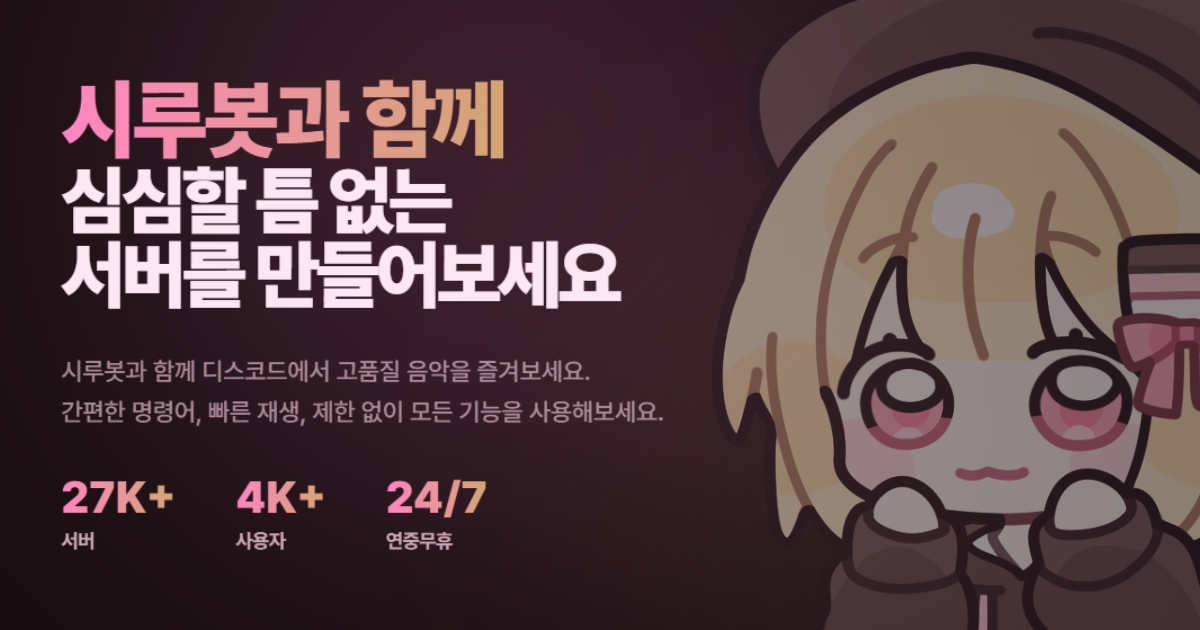
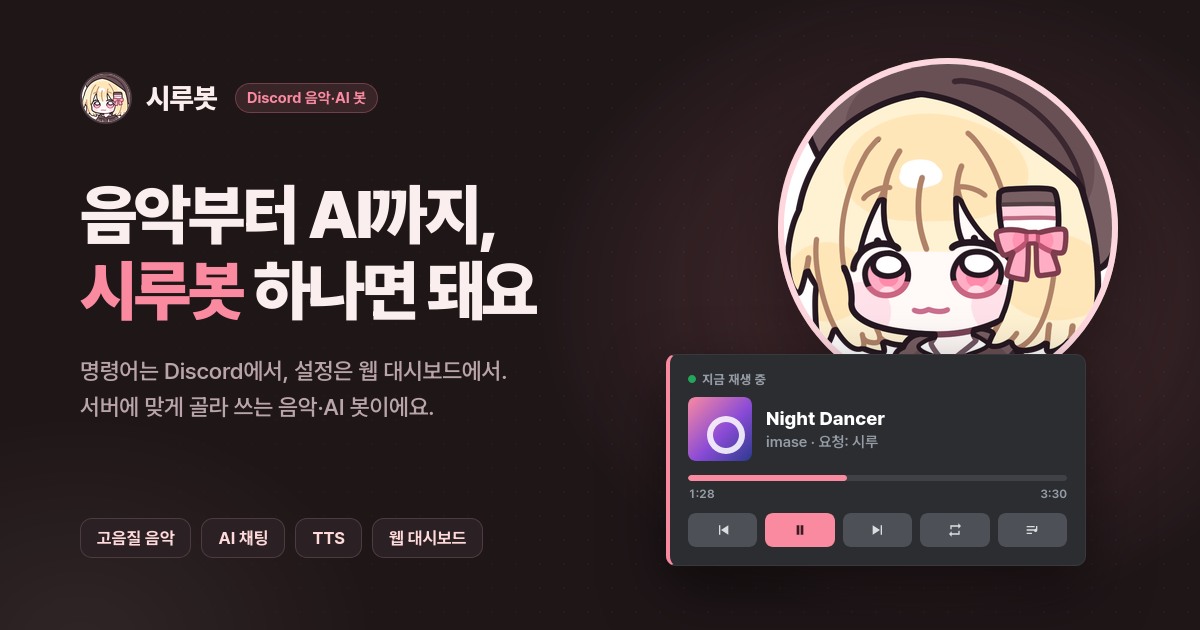
feat: 대시보드 OG 이미지와 Discord 컴포넌트 임베드 디자인 갱신
- OG 이미지를 현재 히어로 카피·다크 브랜드 톤으로 다시 그리고, 초대·음악 차트 전용 이미지를 추가해요
- 하위 페이지가 홈 og:title을 물려받던 문제를 socialMetadata 헬퍼로 고쳐요
- 컴포넌트 임베드: 썸네일 Section, 서브텍스트, 특징 줄, 이모지 버튼, 브랜드 강조색

diff --git a/apps/dashboard/src/lib/discord-embed.ts b/apps/dashboard/src/lib/discord-embed.ts
@@ -6,23 +6,34 @@
  * - 실패하면 Discord가 Open Graph 메타로 대체하므로 metadata(openGraph)는 그대로 둬요.
  */
 
+import { OG_IMAGES } from "@/lib/site-metadata";
+
 export const DISCORD_EMBED_MAX_BYTES = 3000;
-const ACCENT_COLOR = 0xf08a8a;
+/** 다크 테마 --brand(#f98aa0)와 같은 색이에요 */
+const ACCENT_COLOR = 0xf98aa0;
 const LINK_BUTTON_STYLE = 5;
 
 export interface DiscordEmbedButton {
 	label: string;
 	url: string;
+	/** 유니코드 이모지 하나 — 버튼 라벨 앞에 붙어요 */
+	emoji?: string;
 }
 
 export interface DiscordEmbedInput {
 	title: string;
 	description: string;
-	/** 절대 URL — 제목 링크와 우측 버튼에 쓰여요 */
+	/** 절대 URL — 제목 링크에 쓰여요 */
 	url: string;
+	/** 제목 위 작은 줄(-# 서브텍스트) */
+	eyebrow?: string;
+	/** 절대 URL 이미지 — 제목 오른쪽 썸네일로 보여줘요 */
+	thumbnailUrl?: string;
 	/** 절대 URL 이미지 — 본문 아래 큰 이미지로 보여줘요 */
 	imageUrl?: string;
 	imageAlt?: string;
+	/** 이미지 아래 짧은 특징 줄 — 한 줄에 하나씩 보여줘요 */
+	highlights?: string[];
 	buttons: DiscordEmbedButton[];
 }
 
@@ -42,20 +53,31 @@ function getAppBaseUrl() {
 	return (process.env.NEXT_PUBLIC_APP_URL || "http://localhost:3000").replace(/\/+$/, "");
 }
 
-export function buildDiscordEmbed({ title, description, url, imageUrl, imageAlt, buttons }: DiscordEmbedInput) {
+export function buildDiscordEmbed({ title, description, url, eyebrow, thumbnailUrl, imageUrl, imageAlt, highlights, buttons }: DiscordEmbedInput) {
+	const heading = { type: 10, content: `${eyebrow ? `-# ${eyebrow}\n` : ""}## [${title}](${url})\n${description}` };
 	const components: unknown[] = [
-		{ type: 10, content: `# [${title}](${url})\n${description}` }
+		thumbnailUrl ? { type: 9, components: [heading], accessory: { type: 11, media: { url: thumbnailUrl } } } : heading
 	];
 
 	if (imageUrl) {
 		components.push({ type: 12, items: [{ media: { url: imageUrl }, ...(imageAlt ? { description: imageAlt } : {}) }] });
 	}
 
+	if (highlights?.length) {
+		components.push({ type: 10, content: highlights.join("\n") });
+	}
+
 	if (buttons.length > 0) {
 		components.push({ type: 14, spacing: 1 });
 		components.push({
 			type: 1,
-			components: buttons.slice(0, 5).map(({ label, url: href }) => ({ type: 2, style: LINK_BUTTON_STYLE, label, url: href }))
+			components: buttons.slice(0, 5).map(({ label, url: href, emoji }) => ({
+				type: 2,
+				style: LINK_BUTTON_STYLE,
+				label,
+				url: href,
+				...(emoji ? { emoji: { name: emoji } } : {})
+			}))
 		});
 	}
 
@@ -71,41 +93,47 @@ export function serializeDiscordEmbed(payload: ReturnType<typeof buildDiscordEmb
 	return json;
 }
 
-const DESCRIPTION = "음악 재생부터 AI 채팅, 서버 관리까지. 시루봇 하나로 Discord를 더 편리하게 즐겨보세요.";
-
 /** 페이지별 임베드 정의 — 키는 /embeds/<key>.json 경로와 DiscordEmbedLink의 name이에요 */
 export function getDiscordEmbedInput(name: string, base: string): DiscordEmbedInput | null {
-	const imageUrl = `${base}/images/og-image.png`;
-	const invite = { label: "봇 초대하기", url: `${base}/invite` };
-	const dashboard = { label: "대시보드 가기", url: `${base}/servers` };
+	const thumbnailUrl = `${base}/images/siru-profile.png`;
+	const invite = { label: "봇 초대하기", url: `${base}/invite`, emoji: "➕" };
+	const dashboard = { label: "대시보드", url: `${base}/servers`, emoji: "🛠" };
+	const chart = { label: "음악 차트", url: `${base}/track`, emoji: "📈" };
 
 	switch (name) {
 		case "home":
 			return {
-				title: "시루봇",
-				description: DESCRIPTION,
+				eyebrow: "Discord 음악·AI 봇",
+				title: "음악부터 AI까지, 시루봇 하나면 돼요",
+				description: "명령어는 Discord에서, 설정은 웹 대시보드에서. 서버에 맞게 골라 쓰는 음악·AI 봇이에요.",
 				url: base,
-				imageUrl,
-				imageAlt: "시루봇",
-				buttons: [invite, dashboard, { label: "음악 차트", url: `${base}/track` }]
+				thumbnailUrl,
+				imageUrl: `${base}${OG_IMAGES.home.url}`,
+				imageAlt: OG_IMAGES.home.alt,
+				highlights: ["🎵 **음악** 고음질 재생, 대기열, 웹 플레이어", "💬 **AI** 채팅과 TTS로 대화하기", "🛠 **관리** 웹 대시보드에서 서버 설정"],
+				buttons: [invite, dashboard, chart]
 			};
 		case "invite":
 			return {
-				title: "시루봇 초대하기",
-				description: "시루봇을 내 Discord 서버에 초대해요. 음악 신청과 대기열 관리, 웹 플레이어까지 한 번에 쓸 수 있어요.",
+				eyebrow: "봇 초대",
+				title: "내 서버에 시루봇을 초대해요",
+				description: "음악 신청과 대기열 관리, 웹 플레이어까지 초대 한 번으로 바로 쓸 수 있어요.",
 				url: `${base}/invite`,
-				imageUrl,
-				imageAlt: "시루봇",
+				thumbnailUrl,
+				imageUrl: `${base}${OG_IMAGES.invite.url}`,
+				imageAlt: OG_IMAGES.invite.alt,
 				buttons: [invite, dashboard]
 			};
 		case "track":
 			return {
-				title: "음악 차트",
-				description: "Discord에서 인기 있는 음악 차트를 확인하고 바로 재생해요.",
+				eyebrow: "음악 차트",
+				title: "지금 뜨는 음악, 바로 재생해요",
+				description: "Discord에서 많이 듣는 음악 차트를 확인하고 버튼 한 번으로 내 서버에서 틀어보세요.",
 				url: `${base}/track`,
-				imageUrl,
-				imageAlt: "시루봇",
-				buttons: [{ label: "차트 보기", url: `${base}/track` }, invite, dashboard]
+				thumbnailUrl,
+				imageUrl: `${base}${OG_IMAGES.track.url}`,
+				imageAlt: OG_IMAGES.track.alt,
+				buttons: [{ ...chart, label: "차트 보기" }, invite, dashboard]
 			};
 		default:
 			return null;

diff --git a/apps/dashboard/src/app/layout.tsx b/apps/dashboard/src/app/layout.tsx
@@ -6,6 +6,7 @@ import { Navbar } from "@/components/navbar";
 import { GlobalCommandPalette } from "@/components/overlay/global-command-palette";
 import { Providers } from "@/components/Providers";
 import { ScrollToTop } from "@/components/scroll-to-top";
+import { OG_IMAGES, socialMetadata } from "@/lib/site-metadata";
 
 import "./globals.css";
 
@@ -24,31 +25,15 @@ export const metadata: Metadata = {
   description: "음악 재생부터 AI 채팅, 서버 관리까지. 시루봇 하나로 Discord를 더 편리하게 즐겨보세요.",
   applicationName: "시루봇",
   keywords: ["시루봇", "디스코드 음악봇", "Discord 음악 봇", "디스코드 봇", "AI 채팅", "서버 관리"],
-  openGraph: {
+  ...socialMetadata({
     title: "시루봇 | Discord 음악·AI·서버 관리 봇",
     description: "음악 재생부터 AI 채팅, 서버 관리까지. 시루봇 하나로 Discord를 더 편리하게 즐겨보세요.",
-    url: process.env.NEXT_PUBLIC_APP_URL || "http://localhost:3000",
-    siteName: "시루봇",
-    images: [
-      {
-        url: "/images/og-image.png",
-        width: 1200,
-        height: 630,
-        alt: "시루봇",
-      },
-    ],
-    locale: "ko_KR",
-    type: "website",
-  },
+    path: "/",
+    image: OG_IMAGES.home,
+  }),
   robots: {
     index: true,
     follow: true,
-  },
-  twitter: {
-    card: "summary_large_image",
-    title: "시루봇",
-    description: "음악 재생부터 AI 채팅, 서버 관리까지. 시루봇 하나로 Discord를 더 편리하게 즐겨보세요.",
-    images: ["/images/og-image.png"],
   },
   icons: {
     icon: "/images/siru-profile-hand.png",

diff --git a/apps/dashboard/src/lib/site-metadata.ts b/apps/dashboard/src/lib/site-metadata.ts
@@ -1,0 +1,33 @@
+import type { Metadata } from "next";
+
+export const SITE_NAME = "시루봇";
+
+/**
+ * 페이지별 Open Graph 이미지(1200×630) — public/images에 있어요. 컴포넌트 임베드(lib/discord-embed)도 같이 써요.
+ * Pretendard로 미리 렌더한 정적 PNG예요(next/og는 woff2·가변 폰트를 못 읽어서 런타임 생성 대신 이렇게 둬요).
+ */
+export const OG_IMAGES = {
+	home: { url: "/images/og-image.png", alt: "시루봇 — 음악부터 AI까지, 시루봇 하나면 돼요" },
+	invite: { url: "/images/og-invite.png", alt: "시루봇 — 내 서버에 시루봇을 초대해요" },
+	track: { url: "/images/og-track.png", alt: "시루봇 — 지금 뜨는 음악, 바로 재생해요" }
+} as const;
+
+interface SocialMetadataInput {
+	title: string;
+	description: string;
+	/** 앱 기준 경로 — metadataBase로 절대 URL이 돼요 */
+	path: string;
+	image: (typeof OG_IMAGES)[keyof typeof OG_IMAGES];
+}
+
+/**
+ * openGraph·twitter 메타데이터를 만들어요. Next는 하위 세그먼트의 openGraph 객체로 상위 값을 통째로 덮어쓰므로
+ * siteName·locale 같은 공통 필드를 매번 같이 채워요.
+ */
+export function socialMetadata({ title, description, path, image }: SocialMetadataInput): Pick<Metadata, "openGraph" | "twitter"> {
+	const images = [{ url: image.url, width: 1200, height: 630, alt: image.alt }];
+	return {
+		openGraph: { title, description, url: path, siteName: SITE_NAME, locale: "ko_KR", type: "website", images },
+		twitter: { card: "summary_large_image", title, description, images }
+	};
+}

diff --git a/apps/dashboard/src/lib/discord-embed.test.ts b/apps/dashboard/src/lib/discord-embed.test.ts
@@ -28,6 +28,22 @@ describe("discord component embed", () => {
 		expect(JSON.parse(json).component.components[0].content).toContain("<재생> &");
 	});
 
+	it("썸네일이 있으면 제목을 Section에 담고 버튼 이모지는 name만 넘겨요", () => {
+		const { component } = buildDiscordEmbed({
+			...input,
+			eyebrow: "음악 봇",
+			thumbnailUrl: "https://example.com/avatar.png",
+			highlights: ["🎵 음악"],
+			buttons: [{ label: "초대", url: "https://example.com/invite", emoji: "➕" }]
+		});
+		type Node = { type: number; content?: string; components?: Node[] };
+		const [section, , highlights, , row] = component.components as Node[];
+		expect(section).toMatchObject({ type: 9, accessory: { type: 11, media: { url: "https://example.com/avatar.png" } } });
+		expect(section.components?.[0].content).toMatch(/^-# 음악 봇\n## \[시루봇\]/);
+		expect(highlights).toEqual({ type: 10, content: "🎵 음악" });
+		expect(row.components?.[0]).toEqual({ type: 2, style: 5, label: "초대", url: "https://example.com/invite", emoji: { name: "➕" } });
+	});
+
 	it("3,000바이트를 넘으면 에러를 던져요", () => {
 		expect(() => serializeDiscordEmbed(buildDiscordEmbed({ ...input, description: "가".repeat(DISCORD_EMBED_MAX_BYTES) }))).toThrow();
 	});

diff --git a/apps/dashboard/src/app/track/layout.tsx b/apps/dashboard/src/app/track/layout.tsx
@@ -2,10 +2,12 @@ import type { ReactNode } from "react";
 import type { Metadata } from "next";
 
 import { DiscordEmbedLink } from "@/components/discord-embed";
+import { OG_IMAGES, socialMetadata } from "@/lib/site-metadata";
 
 export const metadata: Metadata = {
   title: "음악 차트",
   description: "Discord에서 인기 있는 음악 차트를 확인하고 바로 재생해요.",
+  ...socialMetadata({ title: "지금 뜨는 음악, 바로 재생해요", description: "Discord에서 많이 듣는 음악 차트를 확인하고 버튼 한 번으로 내 서버에서 틀어보세요.", path: "/track", image: OG_IMAGES.track }),
 };
 
 export default function TrackLayout({ children }: { children: ReactNode }) {

diff --git a/apps/dashboard/src/app/invite/layout.tsx b/apps/dashboard/src/app/invite/layout.tsx
@@ -2,10 +2,12 @@ import type { ReactNode } from "react";
 import type { Metadata } from "next";
 
 import { DiscordEmbedLink } from "@/components/discord-embed";
+import { OG_IMAGES, socialMetadata } from "@/lib/site-metadata";
 
 export const metadata: Metadata = {
   title: "봇 초대하기",
   description: "시루봇을 내 Discord 서버에 초대해요.",
+  ...socialMetadata({ title: "내 서버에 시루봇을 초대해요", description: "음악 신청과 대기열 관리, 웹 플레이어까지 초대 한 번으로 바로 쓸 수 있어요.", path: "/invite", image: OG_IMAGES.invite }),
   robots: { index: false },
 };
 
